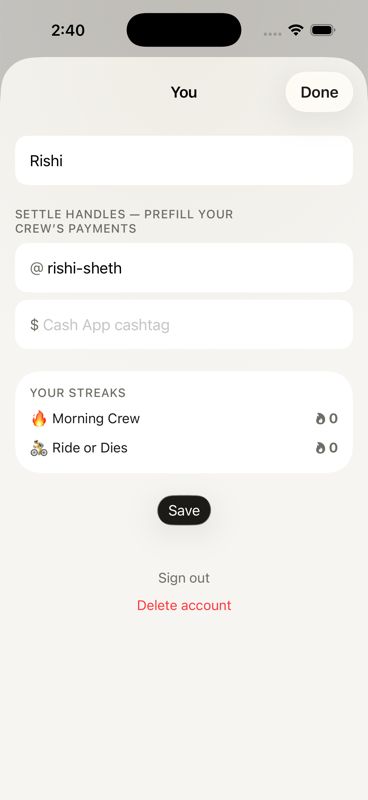
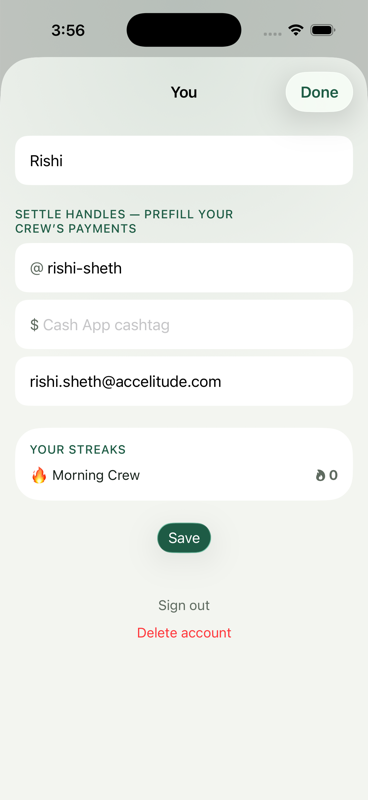
Dark-green uplift + single-crew and majority-vote flows

diff --git a/index.html b/index.html
@@ -65,7 +65,7 @@
 </style>
 
 <div class="wrap">
-  <div class="eyebrow">Built & verified · Nov 24, 2026 · real simulator captures</div>
+  <div class="eyebrow">Built & verified · Nov 24, 2026 · dark-green uplift · real simulator captures</div>
   <h1>Crew Walkthrough</h1>
   <p class="lede">Every flow below is the actual app running against the real server — each screen is a simulator capture from a seeded three-person crew. Drop change requests into the ROADMAP Inbox and they'll be built. The tiny <span class="id">reminders:64</span> label and the two pill buttons under the strip are dev-only chrome; they don't ship.</p>
 
@@ -89,19 +89,18 @@
   </section>
 
   <section>
-    <div class="eyebrow">F8 · Home</div>
+    <div class="eyebrow">A5 · The opening choice</div>
     <div class="flow">
       <div>
-        <h2>Your crews at a glance</h2>
-        <p>Each row: crew, streak, your seven mini circles, and — when you broke last week — the quiet gold <em>owe</em> chip until it's settled.</p>
+        <h2>One crew. Two paths in.</h2>
+        <p>Signed in without a crew, this is the whole screen: create yours or join your friends'. One crew at a time — once you're in, the crew IS the app.</p>
         <ul class="notes">
-          <li><span class="id">A5</span> Mini week strips live on every row.</li>
-          <li><span class="id">S3</span> "owe $20" chip stays until confirmed or waived.</li>
-          <li>Profile (top-left): name, Venmo/Cash App handles, personal streaks, delete.</li>
+          <li><span class="id">P6</span> Creating or joining while in a crew is refused server-side.</li>
+          <li>Account (top-left): name, Venmo / Cash App / <b>Zelle</b> handles, streaks.</li>
         </ul>
       </div>
       <div class="shots">
-        <figure><img src="shots/02-home.png" alt="Home crew list"><figcaption>Home</figcaption></figure>
+        <figure><img src="shots/02-home.png" alt="Home crew list"><figcaption>Landing</figcaption></figure>
         <figure><img src="shots/12-profile.png" alt="Profile sheet"><figcaption>Profile</figcaption></figure>
       </div>
     </div>
@@ -115,7 +114,7 @@
         <p>Identity (name, emoji, accent, the crew clock) then the contract — every rule preset to a good default. A creator who touches nothing has a great crew. $0 stake is pride mode.</p>
         <ul class="notes">
           <li><span class="id">C2</span> Stake presets, minimum workout, passes, lock time; calorie floor and stacking behind one disclosure.</li>
-          <li>Share sheet auto-opens once after create (<span class="id">J1</span>).</li>
+          <li>Minimum workout is a 20 / 30 / 40 choice; the crew can re-vote it later.</li>
         </ul>
         <div class="check"><b>Verified</b> — CreateCrew UI test builds a crew with untouched defaults.</div>
       </div>
@@ -134,7 +133,7 @@
         <ul class="notes">
           <li><span class="id">K1/K2</span> Every member independent — Mon/Wed/Fri next to "any 4".</li>
           <li><span class="id">K4</span> No commitment by lock → last week's rolls over, announced.</li>
-          <li><span class="id">G2</span> A raised stake blocks the commit sheet until you tap "I'm in".</li>
+          <li>Flexible still lives on the 7 real days — and turns red the moment the target is out of reach.</li>
         </ul>
         <div class="check"><b>Verified</b> — CommitFlow UI test: commit → lock → workout fills the strip live.</div>
       </div>
@@ -170,14 +169,14 @@
     <div class="eyebrow">W8 · Crew details</div>
     <div class="flow">
       <div>
-        <h2>One tap from the chat corner</h2>
-        <p>The ⓘ button opens the whole state: every member's week against the goal they chose, this week's pinned rules, the ledger, history, and the governance controls.</p>
+        <h2>Your crew & the vote</h2>
+        <p>Top-right opens the whole state: every member's week against the goal they chose, this week's locked rules, ledger, history. Settings change by <b>majority vote</b> — anyone proposes, it posts to the chat, the banner collects Agrees, and a majority locks it in for next week.</p>
         <ul class="notes">
-          <li><span class="id">G1</span> Captain edits open only in the recap window (between the weekly recap and the next lock); changes post to chat as a diff card.</li>
+          <li><span class="id">G1</span> One open vote at a time; nothing ever changes mid-week.</li>
           <li><span class="id">G3</span> Leaving mid-week while locked in counts as breaking — said plainly on the confirm.</li>
           <li><span class="id">G4/G5</span> Remove (next week), transfer captaincy, archive once debts settle.</li>
         </ul>
-        <div class="check"><b>Verified</b> — Governance UI test: stake raise in the recap window posts the diff card + consent flag; 7 server tests cover leave/remove/consent/archive.</div>
+        <div class="check"><b>Verified</b> — two Governance UI tests: a solo proposal auto-passes and posts the applied card; a two-member vote agrees from the banner live. Server tests cover majority math, strangers-can't-vote, closed votes, one-at-a-time.</div>
       </div>
       <div class="shots">
         <figure><img src="shots/08-details.png" alt="Crew details"><figcaption>Details — weeks vs goals + rules</figcaption></figure>
@@ -190,7 +189,7 @@
     <div class="flow">
       <div>
         <h2>The recap lands in the chat</h2>
-        <p>After the last day's 3 a.m. grace, the summary card posts: everyone's verdict and the exact money lines, cent-split deterministically. Breakers settle with Venmo/Cash App deep links (amount prefilled), mark paid, and the keeper confirms. A perfect week plays the celebration — once.</p>
+        <p>After the last day's 3 a.m. grace, the summary card posts: everyone's verdict and the exact money lines, cent-split deterministically. Breakers settle with a Venmo deep link (amount prefilled), Cash App, or Zelle (handle copied for your bank app), mark paid, and the keeper confirms. A perfect week plays the celebration — once.</p>
         <ul class="notes">
           <li><span class="id">S2</span> Everyone kept → streak +1. Everyone broke → no money moves. One keeper takes full stakes.</li>
           <li><span class="id">S3</span> Gentle nags every 3 days, three times, then silence.</li>
@@ -215,7 +214,7 @@
         <p class="notes muted">Widget placement on the home screen is the one manual step — add it from the widget gallery after installing.</p>
       </div>
       <div class="shots">
-        <figure><img src="shots/14-home-dark.png" alt="Home dark"><figcaption>Home · dark</figcaption></figure>
+        <figure><img src="shots/14-home-dark.png" alt="Home dark"><figcaption>Landing · dark</figcaption></figure>
       </div>
     </div>
   </section>
@@ -223,7 +222,7 @@
   <section>
     <div class="eyebrow">Status</div>
     <h2>Where the build stands</h2>
-    <p>Roadmap items 1–13 are shipped and verified: 80 server tests (time-traveled weeks, DST, cent-exact splits) and 10 end-to-end UI flows run green in CI on every push. Remaining: the TestFlight gate — the steps that need your accounts (Apple team, APNs key, Fly, R2, Google OAuth) are listed in <span class="id">TESTFLIGHT.md</span> in the repo.</p>
+    <p>Everything buildable is shipped and verified: 80 server tests (time-traveled weeks, DST, cent-exact splits, majority votes, single-crew rule) and 12 end-to-end UI flows run green in CI on every push, after a live security attack pass. The full flow matrix lives in <span class="id">TESTPLAN.md</span>; the credential-gated TestFlight steps (Apple team, APNs key, Fly, R2, Google OAuth, on-device week with friends) in <span class="id">TESTFLIGHT.md</span>.</p>
     <p class="muted">Repo: github.com/Rishiaccelitude/crew · specs: REQUIREMENTS.md · ARCHITECTURE.md · DESIGN.md</p>
   </section>
 
